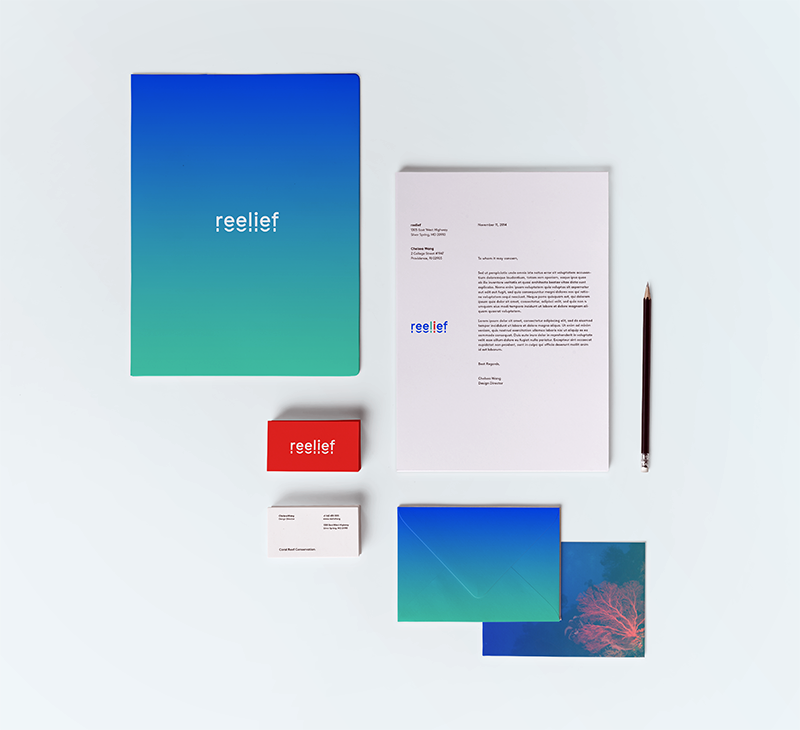
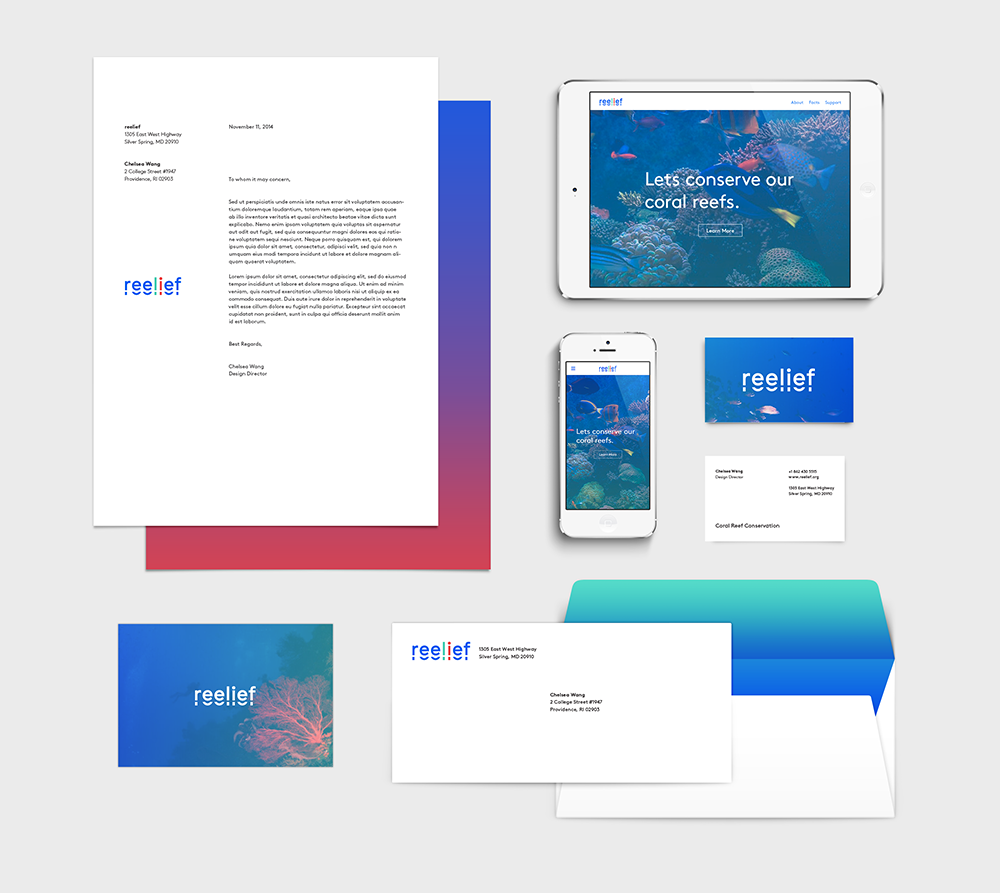
reelief

diff --git a/projects/proj11/index.html b/projects/proj11/index.html
@@ -2,9 +2,35 @@
 <body>
     <h1>Reelief</h1>
         <div id="h2">Logo, Identity</div>
-            <div id="blurb">An proposed identity system for a coral reef conservation campaign. The logotype is a typographic representation of the shifting landscape of underwater reefs. The brand brings attention to the vibrancy and abundance that coral reefs contribute to our global ecosystem.
-                <img src="logo.png">
+            <div id="blurb">
+                <img src="reelief.png">
+                <br/><br/>
+                Reelief is a proposed campaign and identity system for the conservation of coral reefs. The logo is a typographic representation of the shifting underwater landscape. The brand draws attention to the aesthetic exuberance and natural abundance that reef plantlife contributes to our global ecosystem
+                <br/><br/>
+                <strong>Context</strong>
+                <br/><br/>
+                Coral reefs are diverse underwater ecosystems often referred to as "rainforests of the sea." They provide a home for 25% of marine species. They protect shores from the impact of storms, provide food benefits to humans and economic benefits from tourism. Coral reefs are dying around the world as a result of global climate change, ocean acidification, overfishing and inland pollution. Only 46% of the world's reefs are in good condition. By 2050, all coral reefs will be in danger.
+                <br/><br/>
+<!--
+                <strong>Goals</strong>
+                <br/><br/>
+                Research, propose and brand a campaign for a cause I'm drawn towards, in a month. Utilize the potential of language (visual and verbal) to consider information distribution to my audience.
+                <br/><br/>
+                <strong>Process</strong>
+                <br/><br/>In my initial exploration, I explored concepts related to ecosystem, layers, complexity and diminishment.
+                <br/><br/>
+                <img src="reelief2.png">
+                <br/><br/>
+-->
+                <strong>Final Design</strong>
+                <br/><br/>
                 <img src="stationary.png">
+                <br/><br/>
+                <strong>Public Applications</strong>
+                <br/><br/>
+                <img src="application2.png">
+                <br/><br/>
+                <img src="application3.png">
             </div>
 </body>
 
